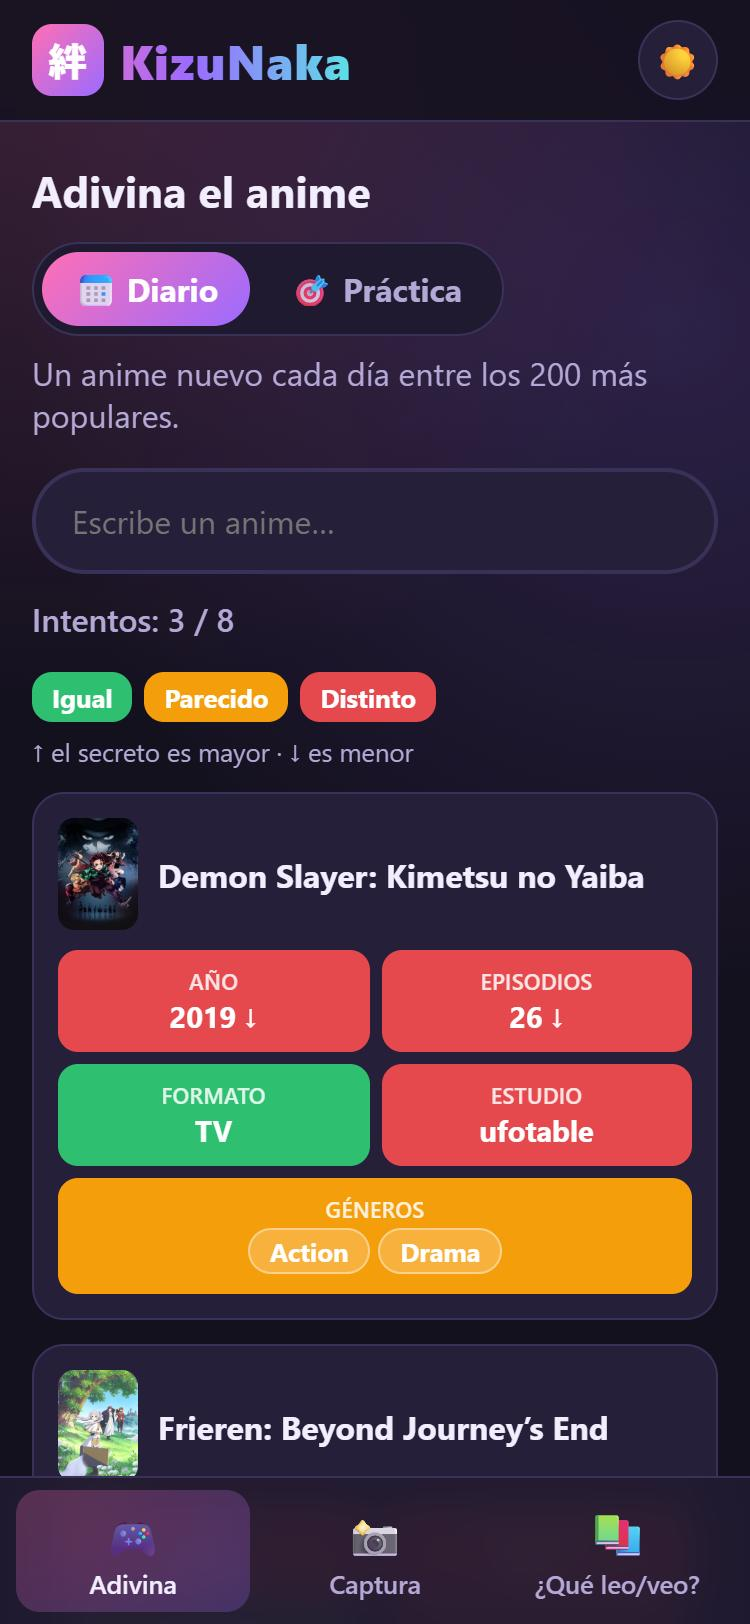
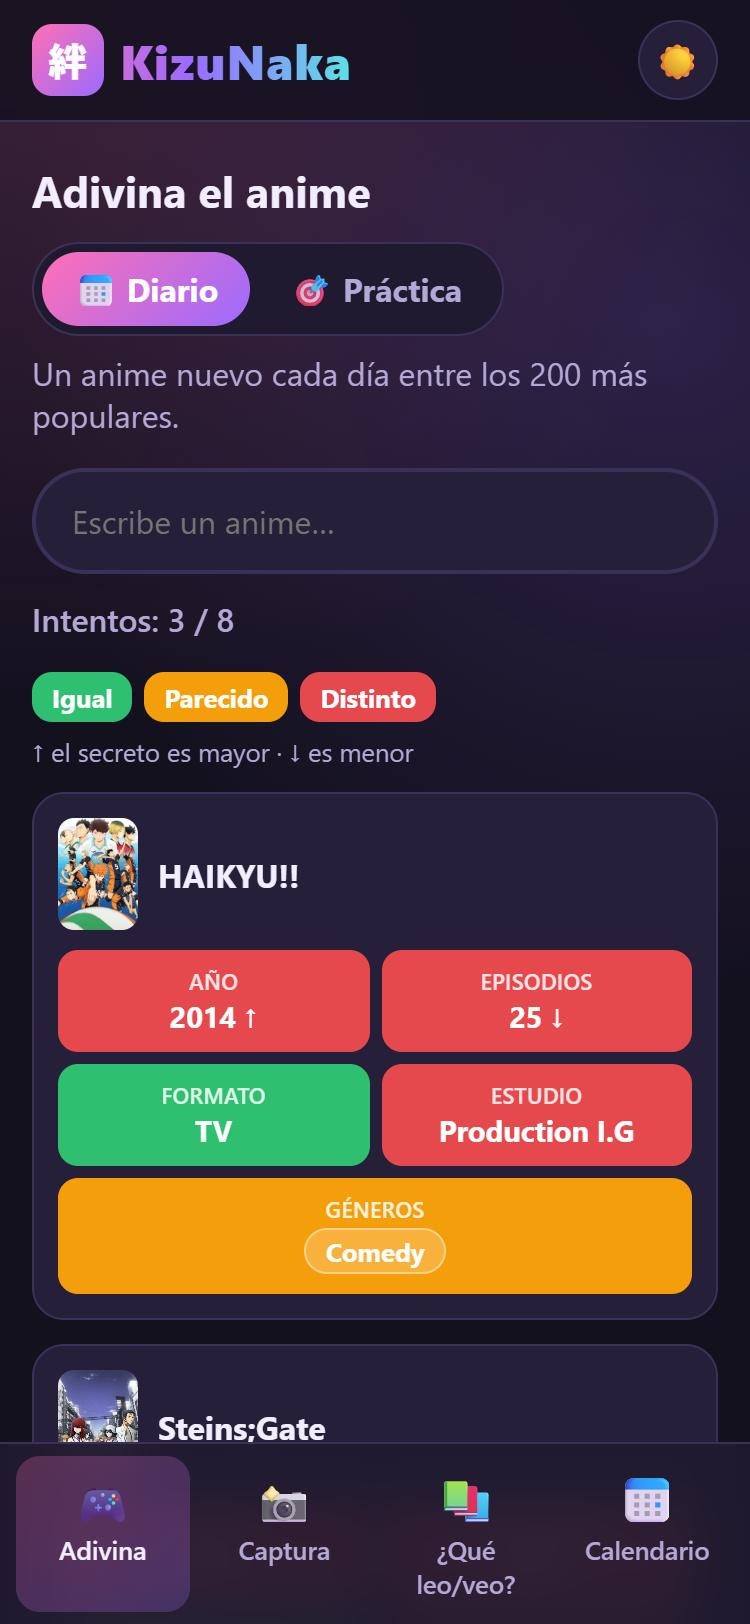
Actualiza las capturas del README y centra el texto de la barra

diff --git a/www/css/estilos.css b/www/css/estilos.css
@@ -133,6 +133,7 @@ main {
   color: var(--texto-suave);
   text-decoration: none;
   font-size: 0.8rem;
+  text-align: center;
   font-weight: 600;
   transition: background 0.2s, color 0.2s;
 }

diff --git a/www/sw.js b/www/sw.js
@@ -1,5 +1,5 @@
 // Service worker: guarda la app en caché para que abra rápido y sin conexión
-const CACHE = 'kizunaka-v9';
+const CACHE = 'kizunaka-v10';
 
 const ARCHIVOS = [
   './',

diff --git a/README.md b/README.md
@@ -14,11 +14,12 @@ App web (PWA) para fans del anime y el manga. Funciona en el móvil y en el PC, 
 Está hecha con HTML, CSS y JavaScript puro (módulos ES), sin frameworks ni herramientas de build.
 
 <p align="center">
-  <img src="capturas/adivina.jpg" alt="Adivina el anime" width="250">
-  <img src="capturas/captura.jpg" alt="Buscar por captura" width="250">
-  <img src="capturas/recomendador.jpg" alt="¿Qué leo o veo?" width="250">
+  <img src="capturas/adivina.jpg" alt="Adivina el anime" width="200">
+  <img src="capturas/captura.jpg" alt="Buscar por captura" width="200">
+  <img src="capturas/recomendador.jpg" alt="¿Qué leo o veo?" width="200">
+  <img src="capturas/calendario.jpg" alt="Calendario" width="200">
 </p>
-<p align="center"><i>Adivina el anime · Buscar por captura · ¿Qué leo o veo?</i></p>
+<p align="center"><i>Adivina el anime · Buscar por captura · ¿Qué leo o veo? · Calendario</i></p>
 
 ## Qué hace
 
